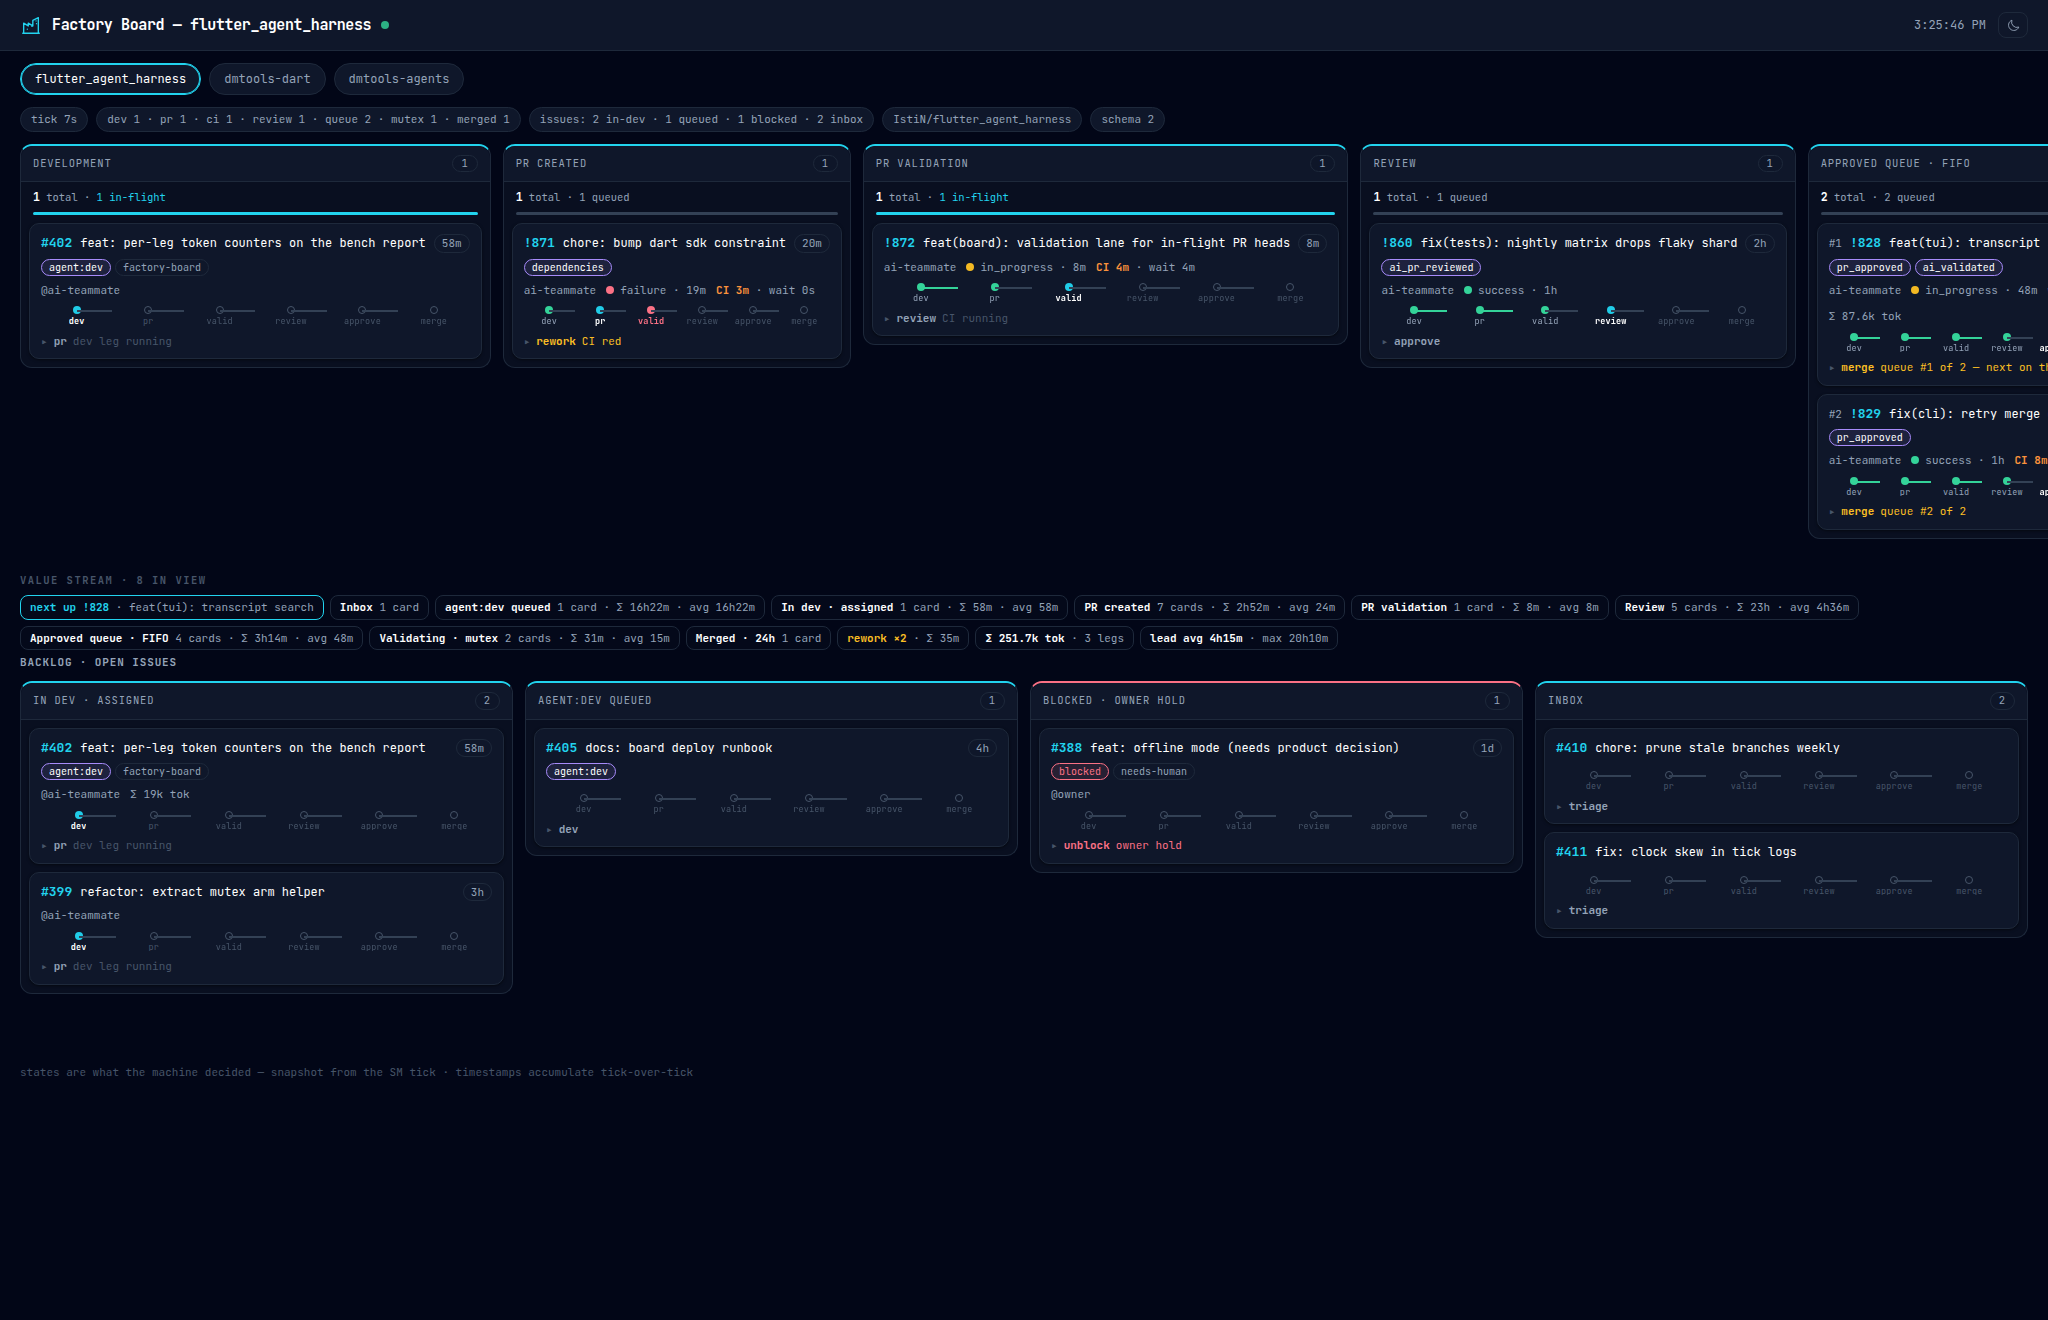
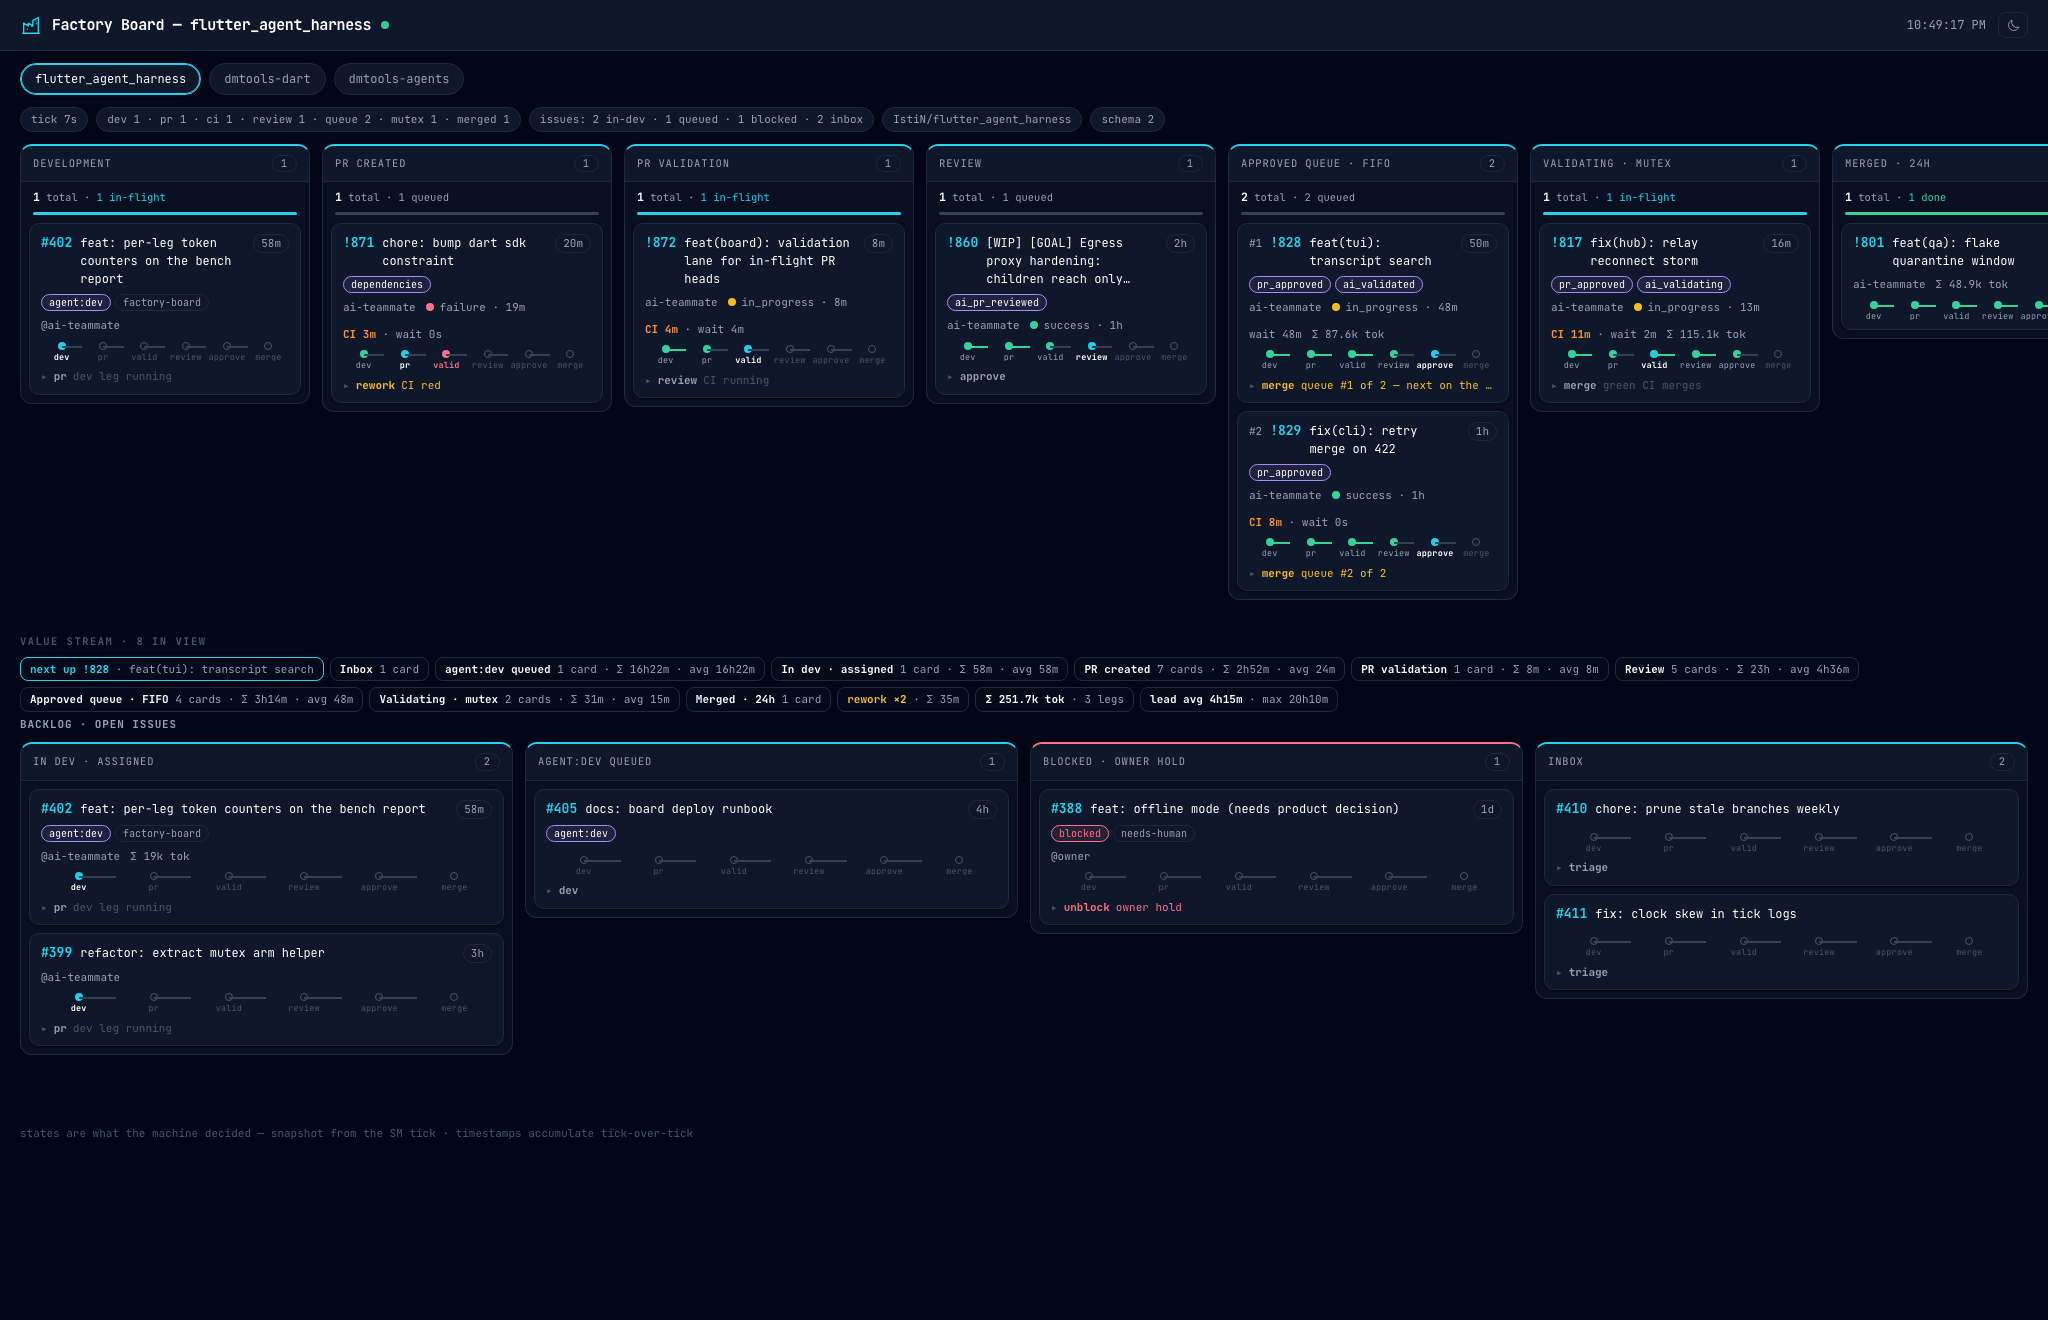
board: pin lane width (min-width:0) + multi-line card titles (#774)
* board: pin lane width (min-width:0) + multi-line card titles

Lanes blew past --lane-w (Review 1084px, Approved 1364px, Merged 1602px
at 290px nominal): a flex/grid item's default min-width:auto resolves to
the widest card's nowrap min-content, so one long issue title stretched
the whole column and the strip.

- .lane: min-width 0 pins the flex basis; inner ellipsis/clamp rules own
  the overflow now (verified live: all lanes 290/301px, doc width =
  viewport)
- .title: one-line ellipsis -> 3-line clamp with overflow-wrap:anywhere
  (the drawer already used this pattern) — long titles wrap in place
  instead of driving layout
- .lbl/.meta: overflow-wrap:anywhere for unbreakable tokens (branch
  names, hashes)

* board: review rework — clip clamp (overflow:hidden), fixture exercises truncation, drop dead ellipsis

- .title: overflow:hidden restored — line-clamp paints the ellipsis but
  does NOT clip lines 4+ without it (MDN); 300-char fixture title now
  renders exactly 3.0 lines, no bleed (verified, fixture mode)
- fixture.json: review-lane card gets a 300-char title so all 5 PNG
  fixtures exercise the >3-line truncation path this rule exists for
- .lbl: text-overflow:ellipsis dropped — unreachable since
  overflow-wrap:anywhere always fits by wrapping (review note)

* board: drop playwright-cli scratch from the branch, keep fixture.json trailing newline

- remove the committed .playwright-cli console/snapshot side effects
[…]

diff --git a/site/factory/styles.css b/site/factory/styles.css
@@ -157,6 +157,10 @@ body {
 .lane {
   background: var(--panel); border: 1px solid var(--line);
   border-radius: 12px; flex: 0 0 var(--lane-w, 290px);
+  /* min-width:auto (default) resolves to the widest card's nowrap
+     min-content and blows the lane past --lane-w; 0 pins the width and
+     lets the inner ellipsis/clamp rules handle long content. */
+  min-width: 0;
   border-top: 2px solid var(--accent, var(--line-2));
 }
 .lane-head {
@@ -190,8 +194,13 @@ body {
 .pr { color: var(--accent); font-weight: 700; white-space: nowrap; }
 .pos { color: var(--muted); font-size: 11px; }
 .title {
-  font-size: 12px; overflow: hidden; text-overflow: ellipsis; white-space: nowrap;
-  flex: 1 1 auto; min-width: 0;
+  font-size: 12px; flex: 1 1 auto; min-width: 0;
+  /* multi-line, not a one-line ellipsis: long issue titles must wrap
+     inside the fixed lane (3-line clamp keeps the cards compact);
+     overflow:hidden is REQUIRED — line-clamp paints the ellipsis but
+     does not clip lines 4+ without it */
+  display: -webkit-box; -webkit-box-orient: vertical; -webkit-line-clamp: 3;
+  overflow: hidden; overflow-wrap: anywhere;
 }
 .age {
   color: var(--muted); font-size: 11px; white-space: nowrap; flex: none;
@@ -202,7 +211,9 @@ body {
 .lbl {
   font-size: 10px; color: var(--muted); border: 1px solid var(--line);
   border-radius: 999px; padding: 0 7px; max-width: 100%;
-  overflow: hidden; text-overflow: ellipsis;
+  /* no ellipsis: overflow-wrap:anywhere means content always fits by
+     wrapping mid-token, so truncation can never trigger (review note) */
+  overflow-wrap: anywhere;
 }
 .lbl.hot {
   color: var(--text); border-color: var(--st-rev);
@@ -211,6 +222,7 @@ body {
 .meta {
   margin-top: 6px; display: flex; gap: 10px; align-items: center;
   color: var(--muted); font-size: 11px; flex-wrap: wrap;
+  overflow-wrap: anywhere;
 }
 .checks { display: flex; gap: 6px; align-items: center; }
 .dot { width: 8px; height: 8px; border-radius: 50%; display: inline-block; flex: none; }
